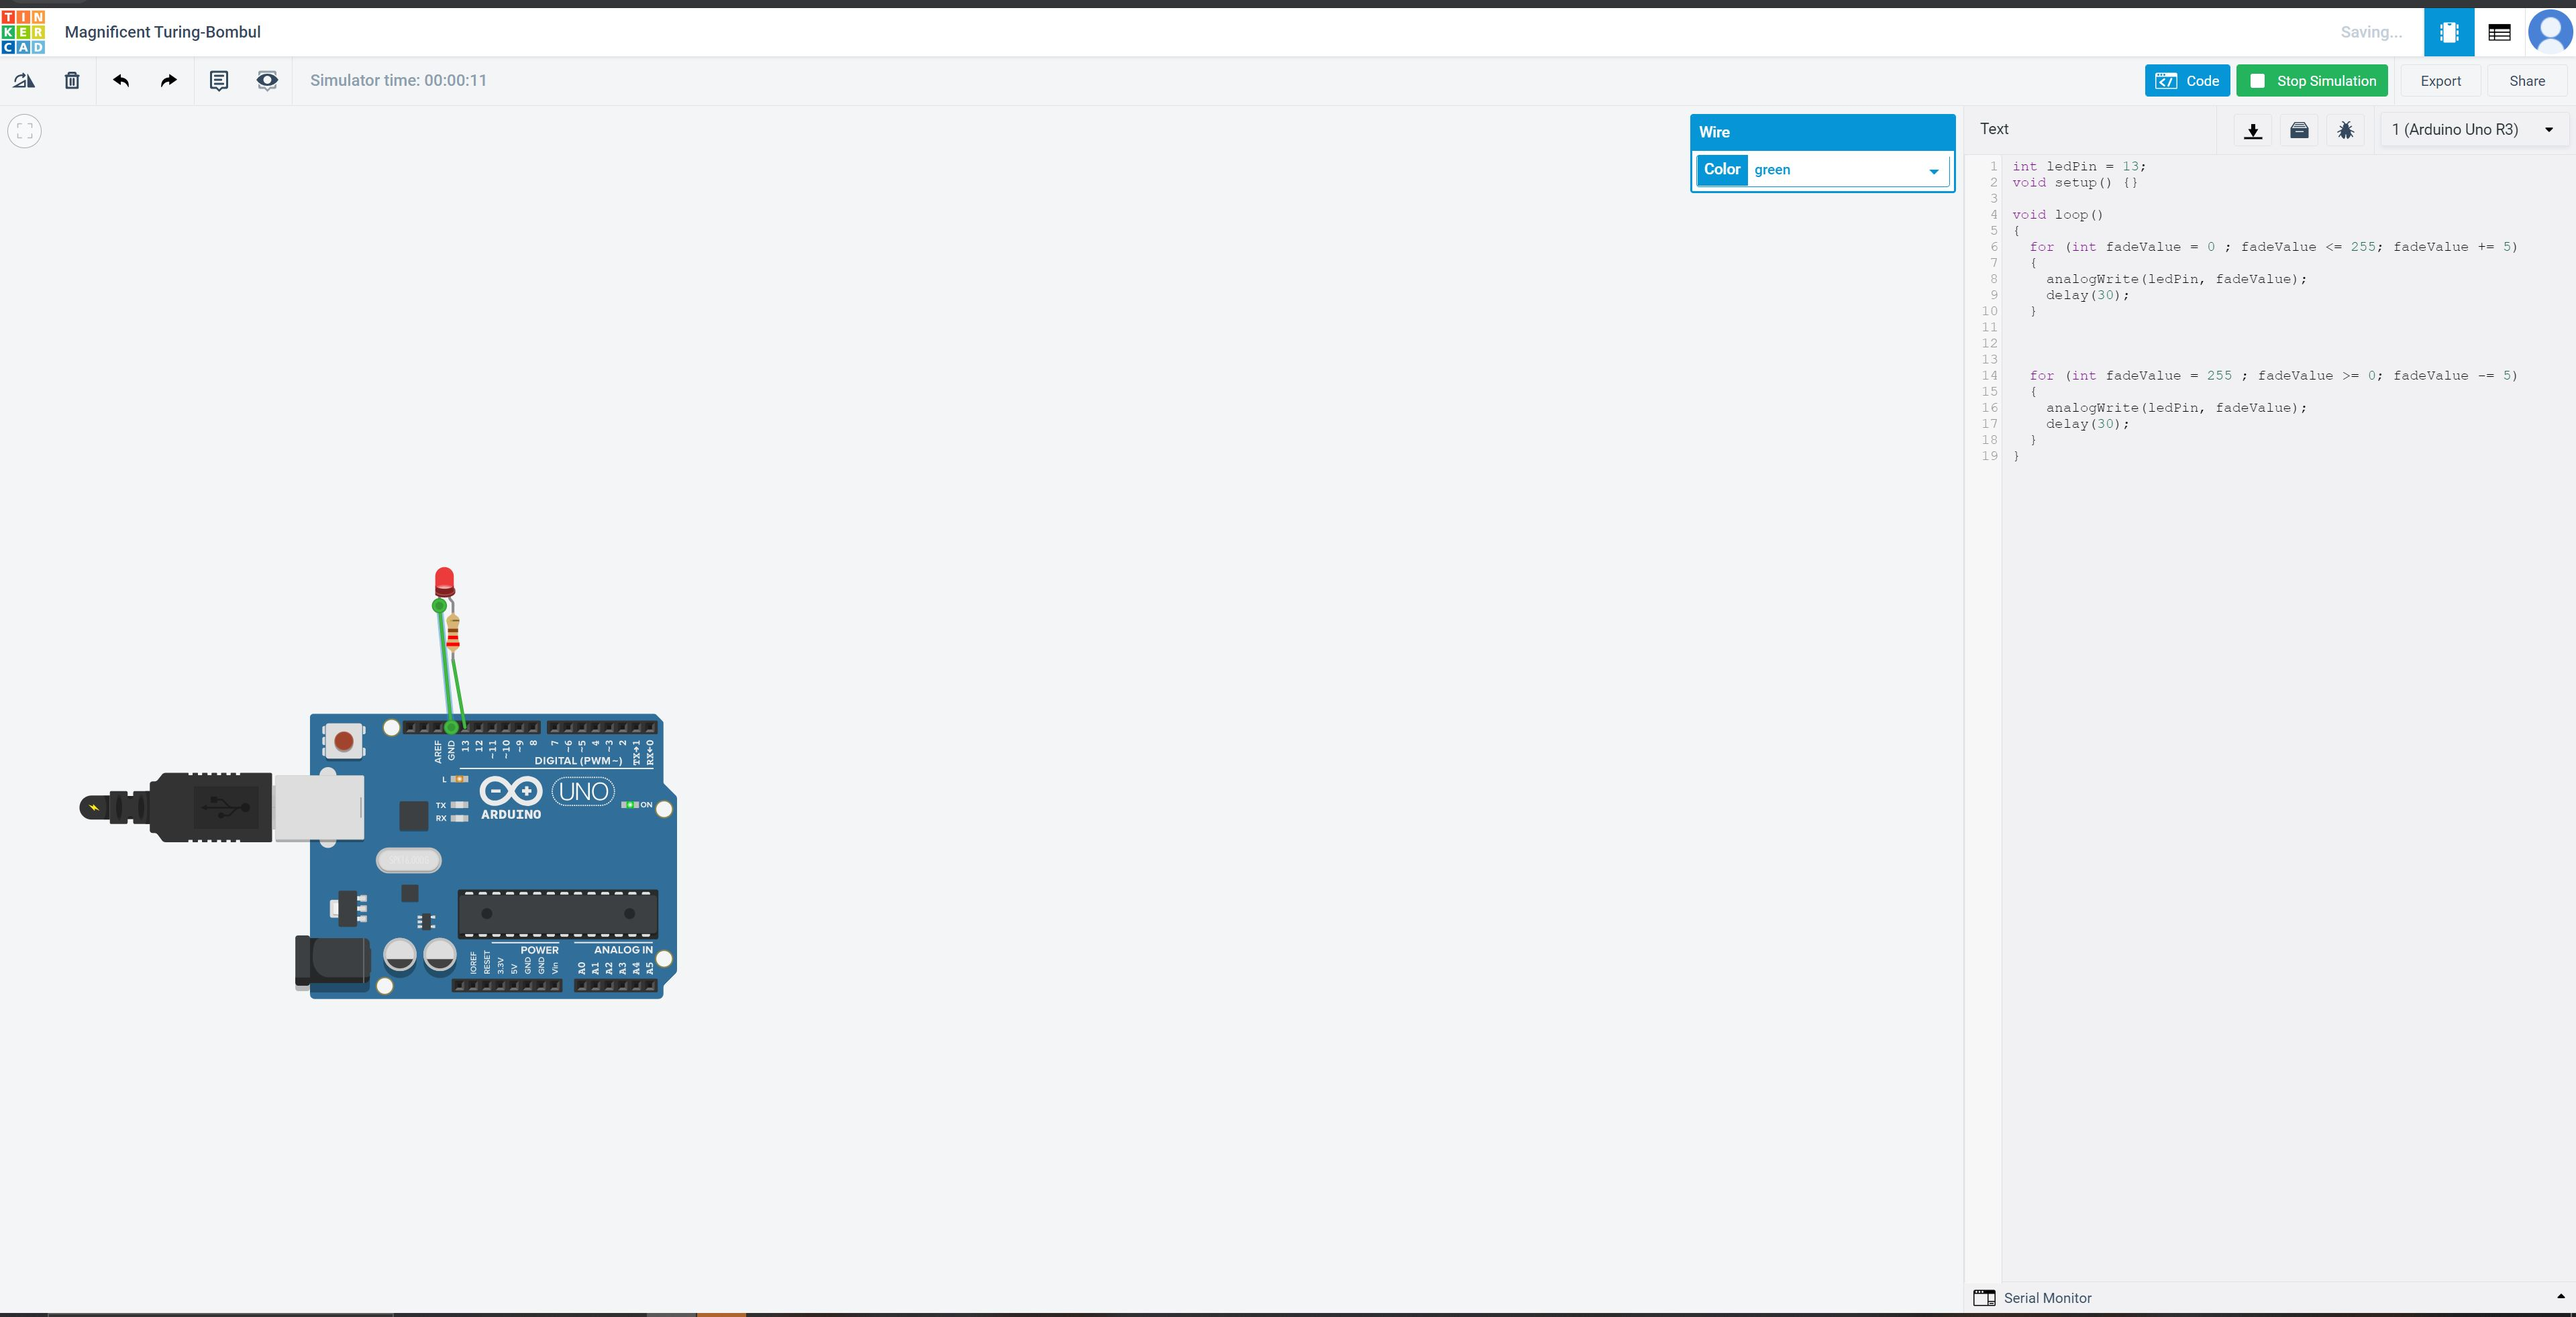
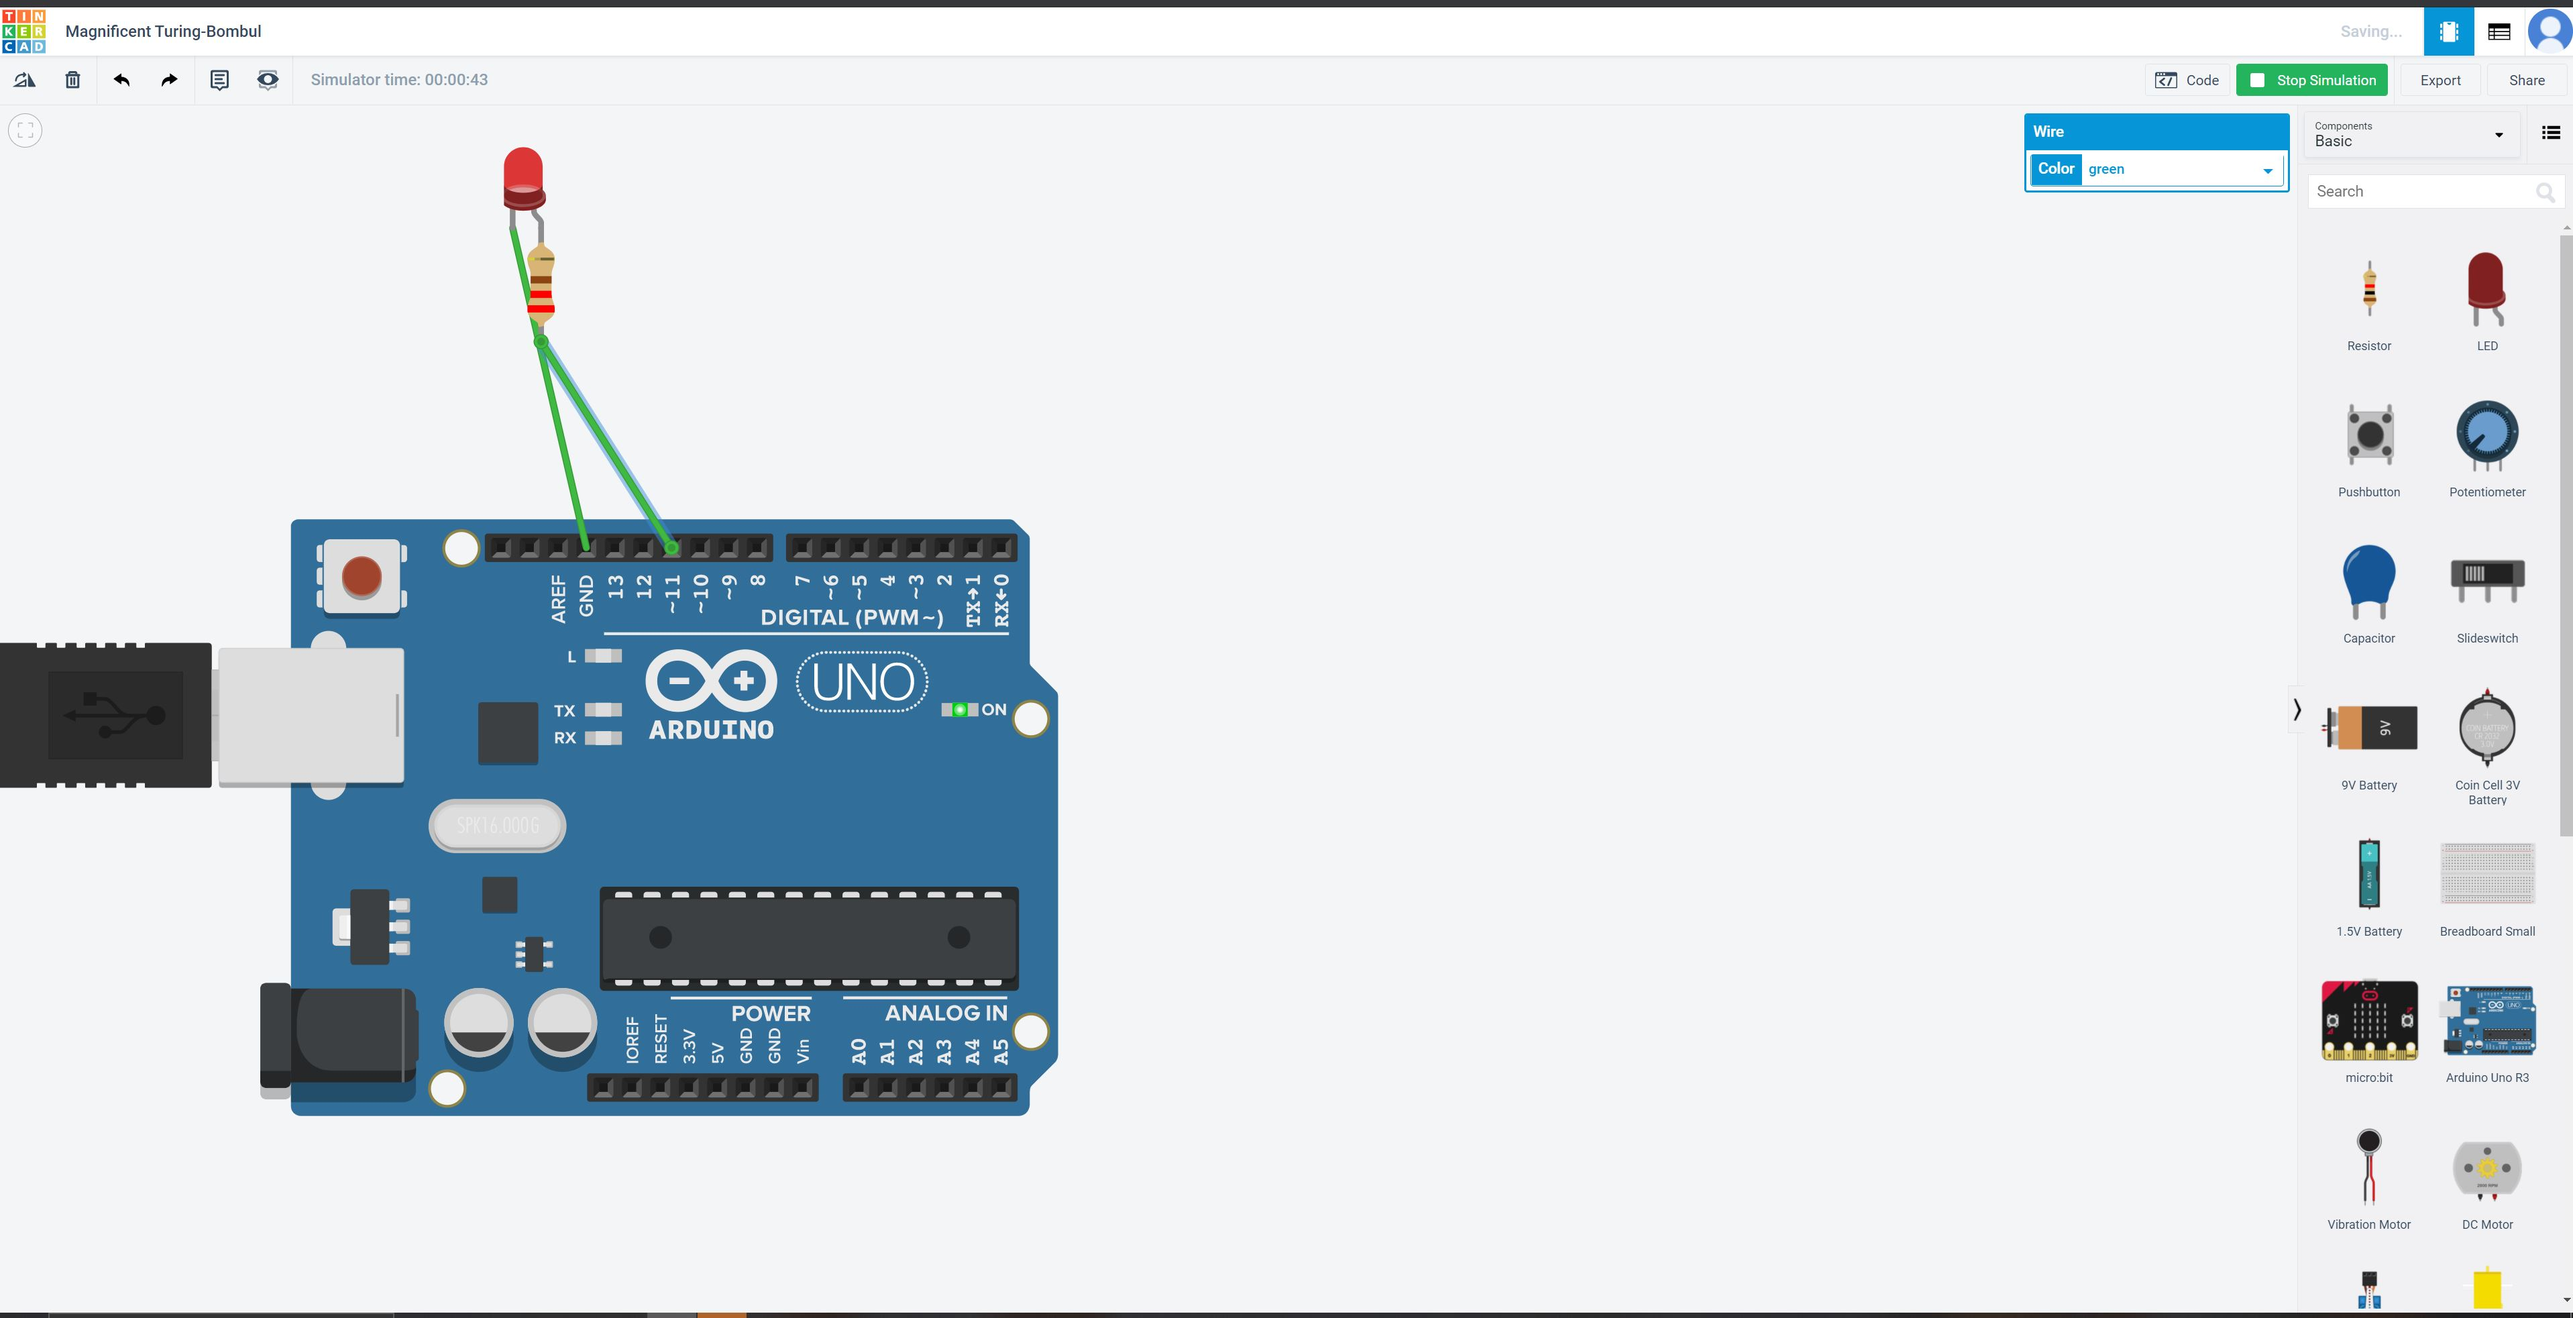
Ostatnie poprawki

diff --git a/Zadanie-3-3/src/main.cpp b/Zadanie-3-3/src/main.cpp
@@ -1,5 +1,5 @@
 #include <Arduino.h>
-int ledPin = 13;
+int ledPin = 11;
 void setup() {}
 
 void loop() 
